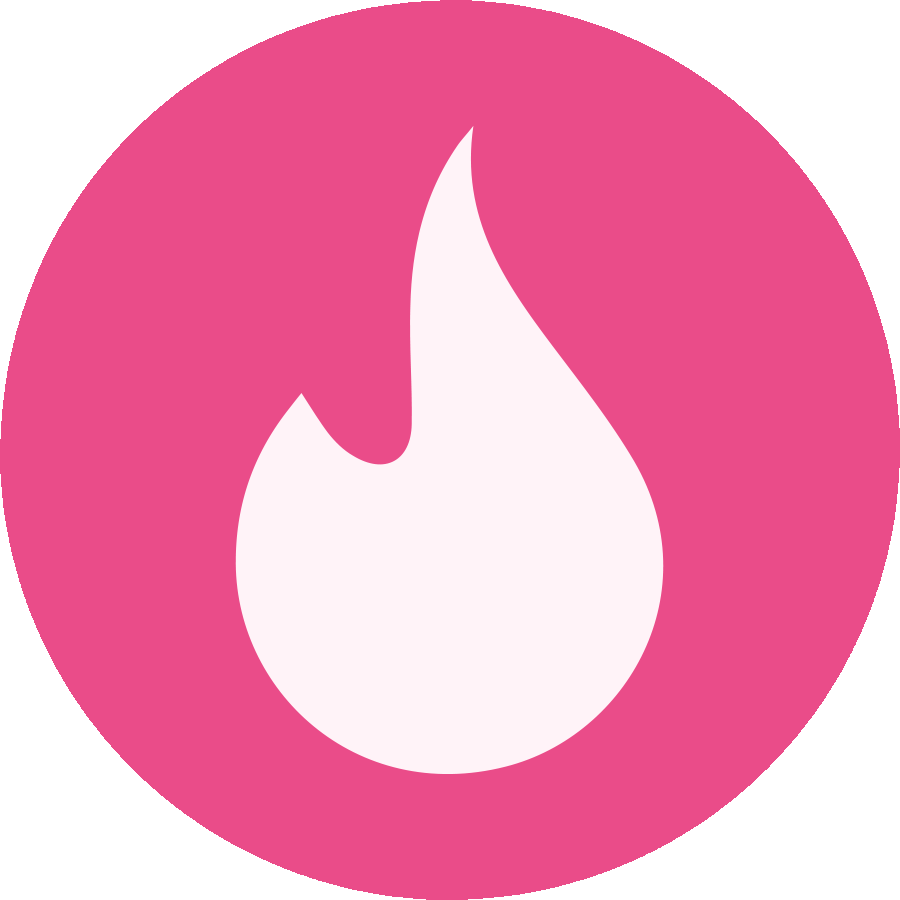
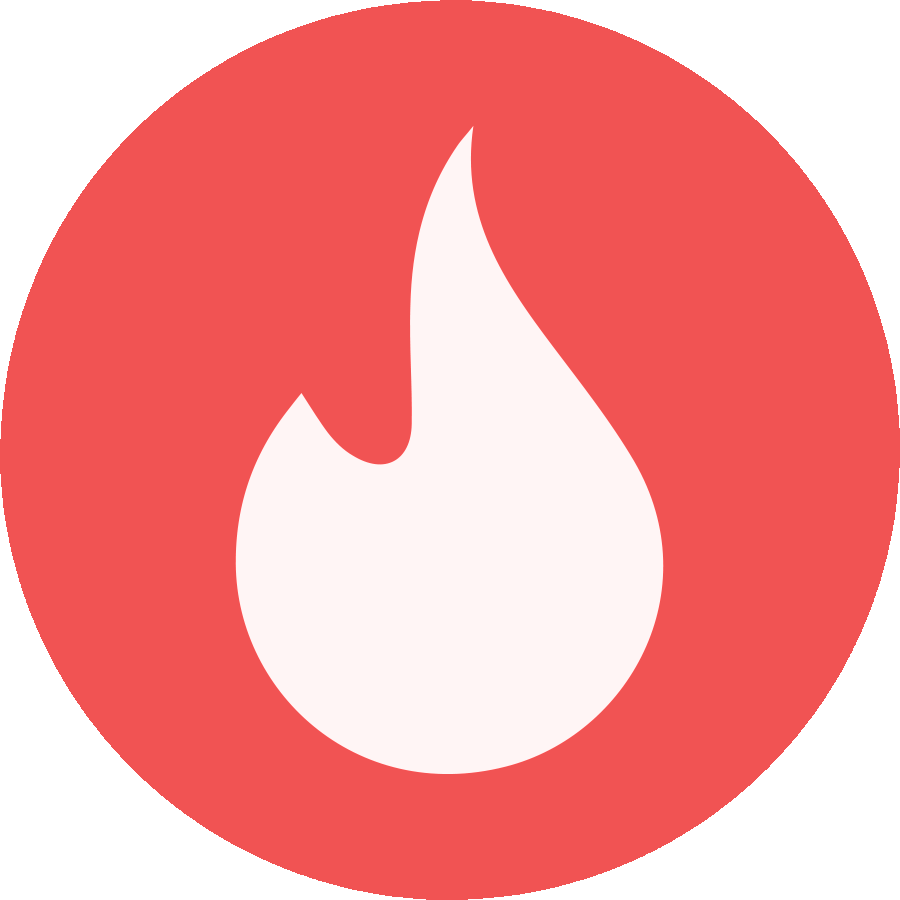
Color to reddish

diff --git a/src/components/Header/index.js b/src/components/Header/index.js
@@ -6,17 +6,13 @@ class Header extends Component {
     return (
       <header>
         <div className="container">
-          <svg
-            className="logo"
-            xmlns="http://www.w3.org/2000/svg"
-            viewBox="0 0 294.8 96.3"
-          >
+          <svg className="logo" xmlns="http://www.w3.org/2000/svg" viewBox="0 0 270.7 96.3">
             <defs />
             <path
-              fill="#ea4c89"
+              fill="#ea4c4c"
               d="M9.7 39.7c1.6 2.5 2.7 4.3 3.9 5.9 1 1.3 2.3 2.6 3.7 3.4 4.7 2.9 8.6.8 8.7-4.7.1-5.9-.4-11.7-.2-17.6.2-8.5 2-16.5 6.9-23.7.6-.9 1.3-1.6 2.4-3-2 13.6 4.6 23.2 11.7 32.7 4.2 5.6 8.6 11.2 12.1 17.2 11.1 19.3-1 40.7-19 45.3C17.7 100.9-.4 83.8 0 64.2c.1-8.1 2.6-15.3 7.5-21.7.7-.9 1.3-1.7 2.2-2.8z"
             />
-            <path d="M108.8 42.6H92v9h15.3v11.8H92v21H78V30.8h30.7l.1 11.8zM128 30.8v53.6h-12.9V30.8H128zM164.3 48h12.9v36.5h-12.9v-4.1c-2.8 3.5-6.5 5.2-11.2 5.2-2.6 0-5.1-.5-7.3-1.5s-4.2-2.3-5.8-4.1c-1.7-1.8-2.9-3.8-3.9-6.2-.9-2.4-1.4-4.9-1.4-7.8 0-2.6.4-5.1 1.4-7.4.9-2.3 2.2-4.4 3.8-6.2s3.5-3.1 5.8-4.2c2.2-1 4.7-1.5 7.4-1.5 4.6 0 8.3 1.6 11.3 4.8V48zm-16.2 18.1c0 1.2.2 2.3.6 3.3s1 1.9 1.7 2.7c.7.8 1.6 1.3 2.6 1.8s2.1.6 3.3.6c1.1 0 2.2-.2 3.2-.6 1-.4 1.9-1 2.6-1.8.7-.8 1.3-1.6 1.8-2.6.4-1 .7-2.1.7-3.2s-.1-2.3-.6-3.3c-.4-1-1-1.9-1.8-2.7-.7-.8-1.6-1.3-2.6-1.8s-2.1-.6-3.2-.6c-1.2 0-2.3.2-3.3.6s-1.9 1-2.6 1.8c-.7.8-1.3 1.6-1.7 2.6-.5 1-.7 2.1-.7 3.2zM185.6 48h12.9v4.5c3.5-3.4 7.4-5.1 11.8-5.1 5.4 0 9.5 2.3 12.4 6.8 2.9-4.6 7-6.9 12.4-6.9 1.7 0 3.3.2 4.8.8 1.5.5 2.8 1.3 3.9 2.3s2 2.4 2.6 4.2 1 3.8 1 6.2v23.7h-12.9v-18c0-1.8-.1-3.4-.4-4.5s-.6-2.1-1.1-2.8c-.5-.7-1.1-1.1-1.7-1.3s-1.4-.4-2.1-.4c-4.1 0-6.2 3-6.2 9v18h-12.9v-18c0-1.8-.1-3.4-.4-4.6-.2-1.2-.6-2.2-1-2.9s-1-1.2-1.7-1.5-1.5-.4-2.5-.4c-.8 0-1.6.1-2.3.4s-1.3.7-1.9 1.4c-.6.7-1 1.6-1.3 2.8-.3 1.2-.5 2.8-.5 4.7v18h-12.9V48zM281.9 48h12.9v36.5h-12.9v-4.1c-2.8 3.5-6.5 5.2-11.2 5.2-2.6 0-5.1-.5-7.3-1.5s-4.2-2.3-5.8-4.1c-1.7-1.8-3-3.8-3.9-6.2-.9-2.4-1.4-4.9-1.4-7.8 0-2.6.5-5.1 1.4-7.4s2.2-4.4 3.8-6.2 3.5-3.1 5.8-4.2c2.2-1 4.7-1.5 7.4-1.5 4.5 0 8.3 1.6 11.3 4.8V48zm-16.2 18.1c0 1.2.2 2.3.6 3.3.4 1 1 1.9 1.7 2.7.7.8 1.6 1.3 2.6 1.8 1 .4 2.1.6 3.3.6 1.1 0 2.2-.2 3.2-.6 1-.4 1.9-1 2.6-1.8.7-.8 1.3-1.6 1.8-2.6s.7-2.1.7-3.2-.2-2.2-.7-3.2c-.5-1-1-1.9-1.8-2.7-.7-.8-1.6-1.3-2.6-1.8-1-.4-2.1-.6-3.2-.6-1.2 0-2.3.2-3.3.6s-1.9 1-2.6 1.8c-.7.8-1.3 1.6-1.7 2.6-.4.9-.6 2-.6 3.1z" />
+            <path d="M105.4 41.3H90.5v8H104v10.5H90.5v18.7H78V30.8h27.3l.1 10.5zM122.4 30.8v47.6H111V30.8h11.4zM154.7 46.1h11.5v32.4h-11.5v-3.6c-2.5 3.1-5.8 4.6-10 4.6-2.3 0-4.5-.4-6.5-1.3s-3.7-2-5.2-3.6-2.6-3.4-3.5-5.5c-.8-2.1-1.2-4.4-1.2-6.9 0-2.3.4-4.5 1.2-6.6.8-2 2-3.9 3.4-5.5s3.1-2.8 5.2-3.7c2-.9 4.2-1.3 6.6-1.3 4.1 0 7.4 1.4 10 4.3v-3.3zm-14.4 16.1c0 1.1.2 2 .5 2.9s.9 1.7 1.5 2.4 1.4 1.2 2.3 1.6 1.9.5 2.9.5 2-.2 2.8-.5c.9-.4 1.7-.9 2.3-1.6.6-.7 1.2-1.4 1.6-2.3.4-.9.6-1.9.6-2.8 0-1-.1-2-.5-2.9-.4-.9-.9-1.7-1.6-2.4-.6-.7-1.4-1.2-2.3-1.6s-1.9-.5-2.8-.5c-1.1 0-2 .2-2.9.5-.9.4-1.7.9-2.3 1.6-.6.7-1.2 1.4-1.5 2.3-.4.8-.6 1.8-.6 2.8zM173.6 46.1h11.5v4c3.1-3 6.6-4.5 10.5-4.5 4.8 0 8.4 2 11 6 2.6-4.1 6.2-6.1 11-6.1 1.5 0 2.9.2 4.3.7 1.3.4 2.5 1.2 3.5 2 1 .9 1.8 2.1 2.3 3.7s.9 3.4.9 5.5v21.1h-11.5v-16c0-1.6-.1-3-.4-4-.3-1-.5-1.9-1-2.5-.4-.6-1-1-1.5-1.2-.5-.2-1.2-.4-1.9-.4-3.6 0-5.5 2.7-5.5 8v16h-11.5v-16c0-1.6-.1-3-.4-4.1-.2-1.1-.5-2-.9-2.6-.4-.6-.9-1.1-1.5-1.3-.6-.3-1.3-.4-2.2-.4-.7 0-1.4.1-2 .4-.6.3-1.2.6-1.7 1.2s-.9 1.4-1.2 2.5c-.3 1.1-.4 2.5-.4 4.2v16h-11.5l.1-32.2zM259.2 46.1h11.5v32.4h-11.5v-3.6c-2.5 3.1-5.8 4.6-10 4.6-2.3 0-4.5-.4-6.5-1.3s-3.7-2-5.2-3.6-2.7-3.4-3.5-5.5c-.8-2.1-1.2-4.4-1.2-6.9 0-2.3.4-4.5 1.2-6.6.8-2 2-3.9 3.4-5.5s3.1-2.8 5.2-3.7c2-.9 4.2-1.3 6.6-1.3 4 0 7.4 1.4 10 4.3v-3.3zm-14.4 16.1c0 1.1.2 2 .5 2.9s.9 1.7 1.5 2.4 1.4 1.2 2.3 1.6c.9.4 1.9.5 2.9.5s2-.2 2.8-.5 1.7-.9 2.3-1.6c.6-.7 1.2-1.4 1.6-2.3s.6-1.9.6-2.8c0-1-.2-2-.6-2.8-.4-.9-.9-1.7-1.6-2.4-.6-.7-1.4-1.2-2.3-1.6-.9-.4-1.9-.5-2.8-.5-1.1 0-2 .2-2.9.5s-1.7.9-2.3 1.6c-.6.7-1.2 1.4-1.5 2.3-.3.7-.5 1.7-.5 2.7z" />
           </svg>
 
           <ul className="balance-wr">

diff --git a/src/components/Conversor/conversor.css b/src/components/Conversor/conversor.css
@@ -72,7 +72,7 @@
 }
 
 .conv-btn {
-  background: #ea4c89;
+  background: #ea4c4c;
   border: none;
   border-radius: 12px;
   color: #fff;
@@ -101,15 +101,15 @@
 }
 
 .option-controller a {
-  border: 1px solid #ea4c89;
-  color: #ea4c89;
+  border: 1px solid #ea4c4c;
+  color: #ea4c4c;
   font-weight: 500;
   font-size: 14px;
   padding: 8px 12px;
 }
 
 .option-controller a.active {
-  background: #ea4c89;
+  background: #ea4c4c;
   color: #fff;
 }
 
@@ -130,7 +130,7 @@
 }
 
 .wallet-status a{
-  color: #ea4c89;
+  color: #ea4c4c;
   margin-left: 8px;
   font-weight: 600;
   text-decoration: underline;

diff --git a/src/components/Footer/footer.css b/src/components/Footer/footer.css
@@ -33,7 +33,7 @@ footer .container {
 
 .ext {
   align-items: center;
-  background: #ea4c89;
+  background: #ea4c4c;
   border-radius: 4px;
   color: #fff;
   display: flex;

diff --git a/src/components/Header/header.css b/src/components/Header/header.css
@@ -36,7 +36,7 @@ header .container {
 }
 
 .logo {
-  width: 100px;
+  width: 88px;
 }
 
 .balance-wr {
